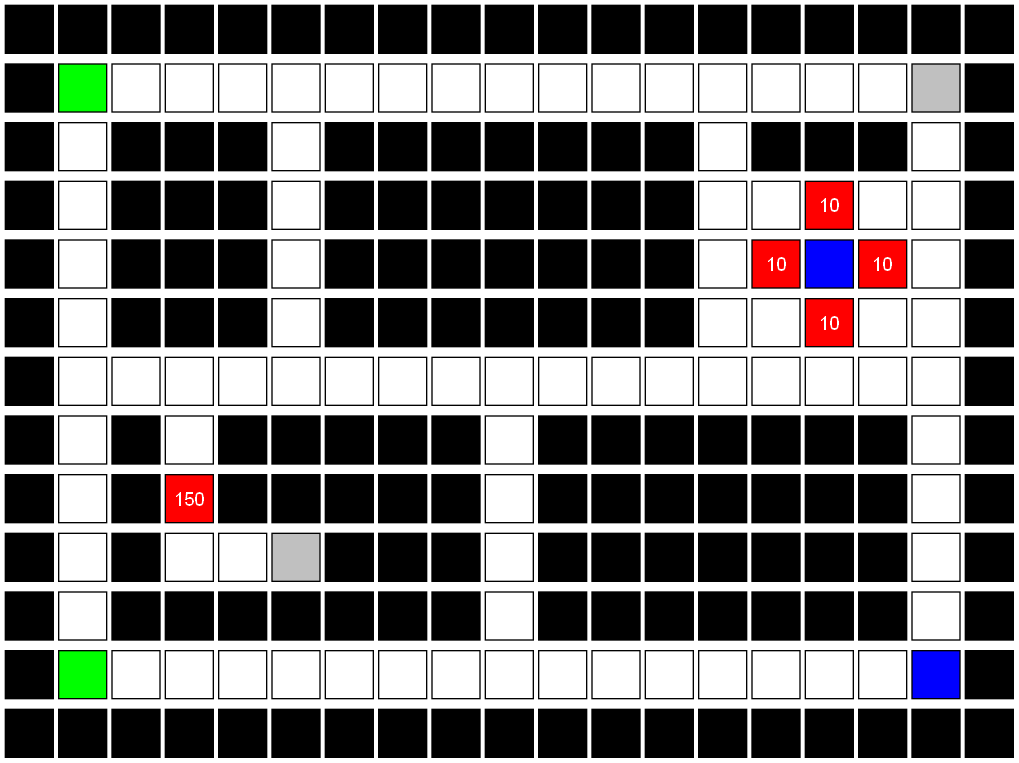
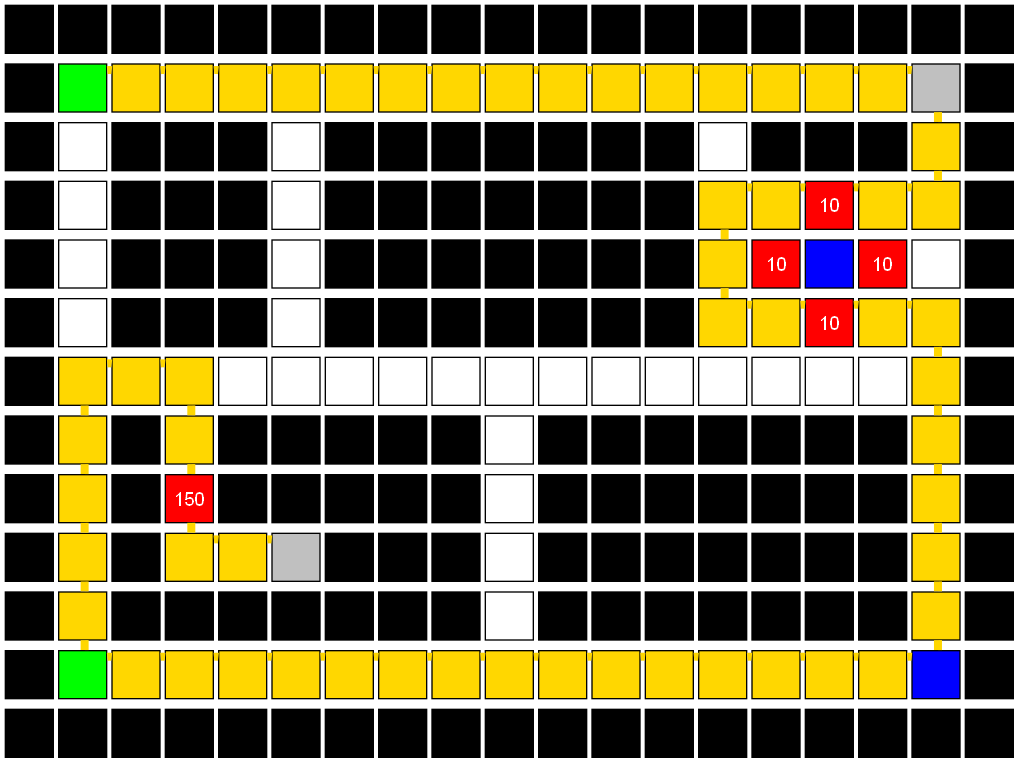
Vaciado de pila despues de cada mision

diff --git a/IPC2_Proy01_202602_202500286/TDA's/NodoCeldas.cs b/IPC2_Proy01_202602_202500286/TDA's/NodoCeldas.cs
@@ -81,6 +81,7 @@ namespace IPC2_Proy01_202602_202500286.TDA_s
             }
 
             Console.WriteLine("Misión Imposible");
+            pila.VaciarPila();
             return ListaCamino=new Listas<NodoCeldas>();
         }
 
@@ -104,6 +105,7 @@ namespace IPC2_Proy01_202602_202500286.TDA_s
                 Console.WriteLine($"({nodo.celda.fila+1},{nodo.celda.columna+1}) capcomb: {nodo.celda.capcomb}");
             }
 
+            camino.VaciarPila();
             return ListaCamino;
         }
     }

diff --git a/IPC2_Proy01_202602_202500286/TDA's/Pila.cs b/IPC2_Proy01_202602_202500286/TDA's/Pila.cs
@@ -60,5 +60,10 @@ namespace IPC2_Proy01_202602_202500286.TDA_s
                 return nodo;
             }
         }
+
+        public void VaciarPila()
+        {
+            tope = -1;
+        }
     }
 }
